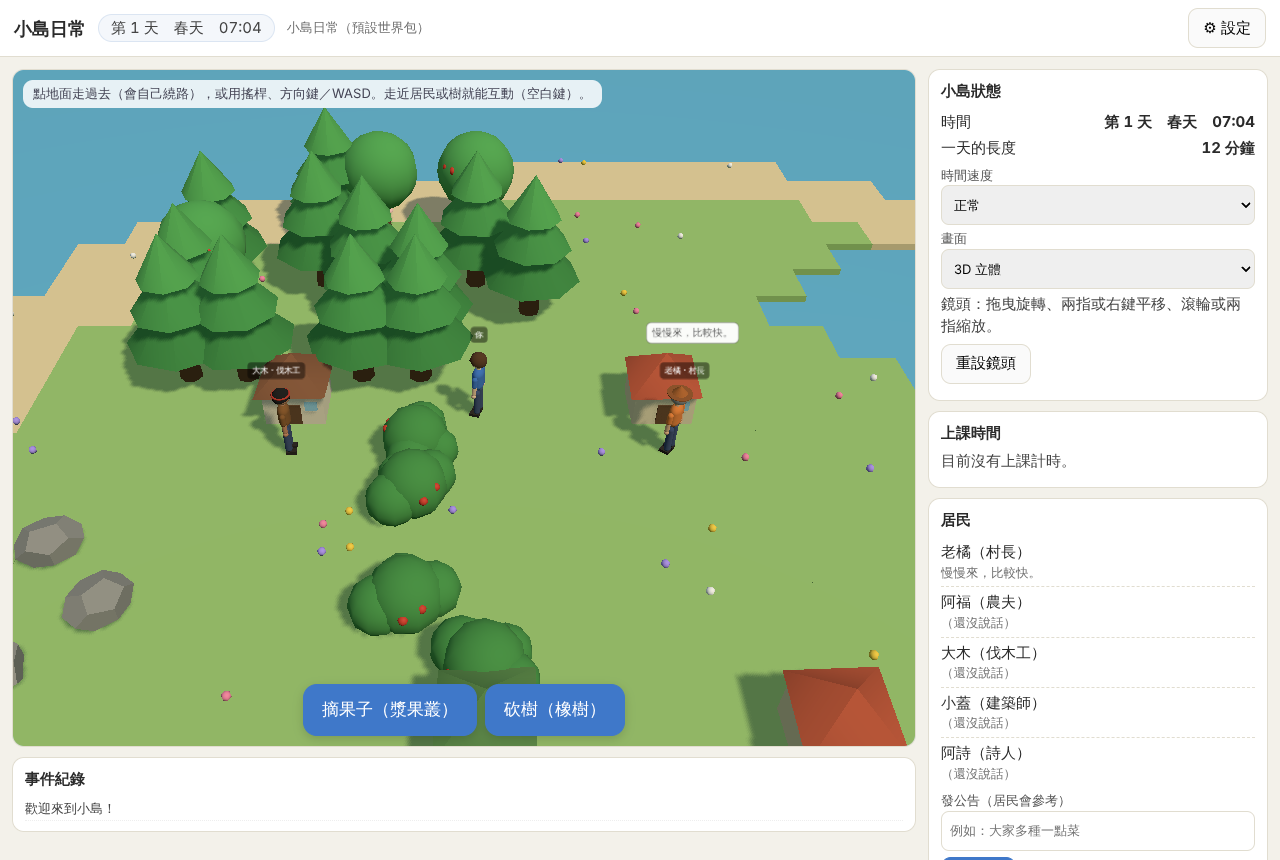
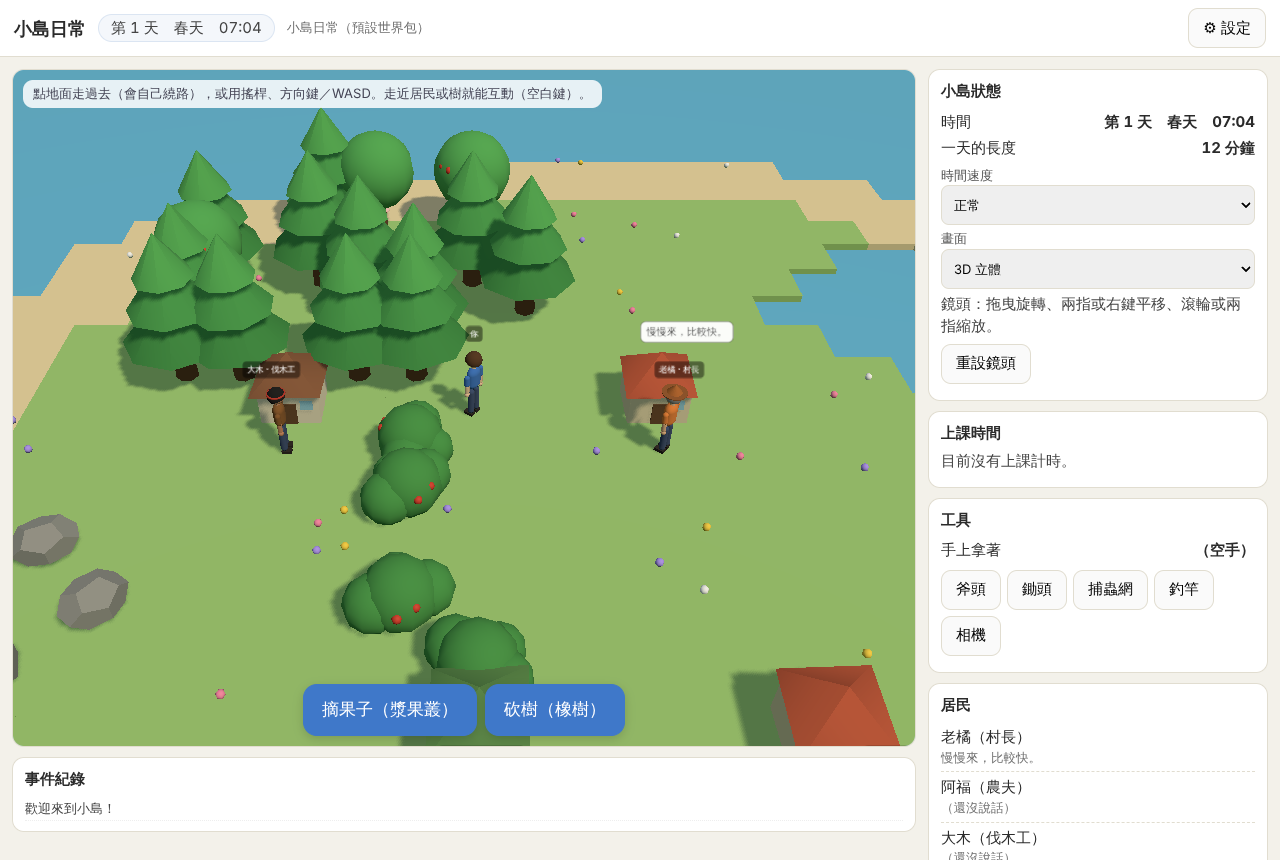
PR11：行動與工具（actions）——裝備工具、有持續時間的動作、成敗結果；採集改用動作
- src/modules/actions：api.start(actor, { label, seconds, tool, successChance, onDone }) → 進度、完成、失敗（種子亂數、可重現）、
  走開中斷；工具 toolSpeed 加快動作；actions.equip／unequip／cancel；畫面上方進度條（placement: 'hud'）、工具面板；存檔記住手上的工具
- 回饋事件 actions:feedback（失敗、中斷）；actions:completed 給任務等模組計數
- schema.js：工具的 toolSpeed 檢查；世界包範例：斧頭、釣竿 toolSpeed
- gathering：optional actions；開著時採集變成要花時間的動作（走開中斷），沒開時照舊馬上拿到；新增 gathering:feedback
- HUD 面板可以按（pointer-events）
- tests/actions.test.mjs（7 項）、e2e 進度條與回饋截圖

未修改 src/core。

Claude-Session: https://claude.ai/code/session_0121tRRF6aCKPvw8nQbVPqNZ

diff --git a/src/modules/actions/index.js b/src/modules/actions/index.js
@@ -1,0 +1,139 @@
+// 行動與工具（actions）：裝備工具、有持續時間的動作、成敗結果。其他模組透過 api 使用（optional: ['actions']）。
+//
+//   api.start(actor, {
+//     label: '砍樹', seconds: 1.2,            // 動作要多久（遊戲秒數），會依工具的 toolSpeed 變快
+//     tool: 'axe',                            // 選填：需要的工具；有的話自動裝備，沒有就不能開始
+//     successChance: 1,                       // 選填：成功機率（0～1），用種子亂數決定，可重現
+//     at: { x, y },                           // 選填：在哪裡做（回饋事件用）
+//     cancelIfMoved: true,                    // 走開就中斷（預設 true）
+//     onDone(outcome) {}                      // outcome = { ok: true|false, cancelled?: true }
+//   }) → { ok, reason }
+//   api.busy(actor) / api.progress(actor) / api.cancel(actor) / api.equipped(actor) / api.equip(actor, item)
+//
+// 「失敗」只代表這次沒成功（例如魚跑掉了），不扣東西、沒有懲罰。
+// 回饋事件：actions:feedback（開始、完成、失敗、中斷）；actions:completed 給其他模組（例如任務）計數。
+const posOf = (entities, actor) => entities.get(actor === 'player' ? 'player' : `resident.${actor}`);
+
+export default {
+  id: 'actions',
+  version: '0.1.0',
+  requires: [],
+  optional: [],
+  conflicts: [],
+  emits: ['actions:started', 'actions:completed', 'actions:feedback', 'actions:equipped'],
+  config: { moveTolerance: 0.4 },
+
+  init(ctx) {
+    const { entities, inventory } = ctx.services;
+    const items = new Map((ctx.data.items || []).map((x) => [x.id, x]));
+    const isTool = (id) => items.get(id)?.category === 'tool';
+    const equipped = new Map(); // actor → item id
+    const running = new Map();  // actor → { label, total, left, spec, start }
+    const fb = (kind, text, extra = {}) => ctx.emit('actions:feedback', { kind, text, ...extra });
+
+    function equip(actor, item) {
+      if (!isTool(item)) return { ok: false, reason: '這不是工具' };
+      if (!inventory.has(actor, item)) return { ok: false, reason: `背包裡沒有${inventory.itemName(item)}` };
+      equipped.set(actor, item);
+      ctx.emit('actions:equipped', { actor, item });
+      return { ok: true };
+    }
+
+    function start(actor, spec = {}) {
+      if (running.has(actor)) return { ok: false, reason: `正在${running.get(actor).label}，等一下喔` };
+      const seconds = Math.max(0, Number(spec.seconds) || 0);
+      if (spec.tool) {
+        if (!inventory.has(actor, spec.tool)) return { ok: false, reason: `需要${inventory.itemName(spec.tool)}` };
+        if (equipped.get(actor) !== spec.tool) equip(actor, spec.tool);
+      }
+      const speed = spec.tool ? (items.get(spec.tool)?.toolSpeed ?? 1) : 1;
+      const p = posOf(entities, actor);
+      const act = { label: spec.label || '做事', total: seconds / speed, left: seconds / speed, spec, start: p ? { x: p.x, y: p.y } : null };
+      running.set(actor, act);
+      ctx.emit('actions:started', { actor, label: act.label, seconds: act.total, tool: spec.tool ?? null });
+      if (act.total <= 0) finish(actor, act);
+      return { ok: true };
+    }
+
+    function finish(actor, act) {
+      running.delete(actor);
+      const chance = act.spec.successChance ?? 1;
+      const ok = chance >= 1 || ctx.rng.next() < chance;
+      ctx.emit('actions:completed', { actor, label: act.label, ok, tool: act.spec.tool ?? null });
+      try { act.spec.onDone?.({ ok }); } catch (e) { ctx.log(`動作「${act.label}」完成時出錯：${e.message}`); }
+      if (!ok) fb('fail', act.spec.failText || `${act.label}沒有成功，再試一次吧！`, { actor, at: act.spec.at });
+    }
+
+    function cancel(actor, why = '動作被打斷了') {
+      const act = running.get(actor);
+      if (!act) return false;
+      running.delete(actor);
+      try { act.spec.onDone?.({ ok: false, cancelled: true }); } catch { /* 忽略 */ }
+      fb('fail', why, { actor, at: act.spec.at, quiet: actor !== 'player' });
+      return true;
+    }
+
+    ctx.registerSystem({
+      id: 'actions.tick', order: 20,
+      update(dt) {
+        for (const [actor, act] of [...running]) {
+          if (act.spec.cancelIfMoved !== false && act.start) {
+            const p = posOf(entities, actor);
+            if (p && Math.hypot(p.x - act.start.x, p.y - act.start.y) > ctx.config.moveTolerance) { cancel(actor, `走開了，${act.label}停下來了`); continue; }
+          }
+          act.left -= dt;
+          if (act.left <= 0) finish(actor, act);
+        }
+      },
+    });
+
+    // ---------- 指令 ----------
+    const tools = (actor) => inventory.list(actor).filter((s) => isTool(s.item));
+    ctx.registerCommand({
+      id: 'actions.equip', label: '拿起工具', description: '把背包裡的工具拿在手上',
+      params: { item: { type: 'ref', of: 'items' } },
+      canRun: ({ item }, call) => { const r = isTool(item) ? (inventory.has(call.actor, item) ? true : `背包裡沒有${inventory.itemName(item)}`) : '這不是工具'; return r; },
+      run({ item }, call) { equip(call.actor, item); ctx.emit('actions:feedback', { kind: 'success', text: `拿起了${inventory.itemName(item)}`, actor: call.actor, quiet: true }); return item; },
+    });
+    ctx.registerCommand({ id: 'actions.unequip', label: '收起工具', run: (_, call) => { equipped.delete(call.actor); return true; } });
+    ctx.registerCommand({ id: 'actions.cancel', label: '停下來', available: (call) => (running.has(call.actor) ? true : '現在沒有在做事'), run: (_, call) => cancel(call.actor, '停下來了') });
+
+    // ---------- 面板 ----------
+    ctx.registerPanel({
+      id: 'actions.progress', title: '正在做', order: 1, placement: 'hud',
+      view() {
+        const act = running.get('player');
+        if (!act) return [];
+        return [{ type: 'bar', label: `${act.label}…`, value: act.total ? 1 - act.left / act.total : 1 }, { type: 'button', label: '停下來', command: 'actions.cancel' }];
+      },
+    });
+    ctx.registerPanel({
+      id: 'actions.tools', title: '工具', order: 15,
+      view() {
+        const list = tools('player');
+        const eq = equipped.get('player');
+        if (!list.length) return [{ type: 'text', text: '背包裡還沒有工具。' }];
+        return [
+          { type: 'stat', label: '手上拿著', value: eq ? inventory.itemName(eq) : '（空手）' },
+          { type: 'buttons', items: list.map((s) => ({ type: 'button', label: s.name, command: 'actions.equip', args: { item: s.item }, primary: s.item === eq })) },
+        ];
+      },
+    });
+
+    // 工具被用掉、送掉時，手上就不再拿著
+    ctx.on('core:inventoryChanged', (x) => { if (x.qty <= 0 && equipped.get(x.owner) === x.item) equipped.delete(x.owner); });
+
+    ctx.registerSaveSlice({
+      key: 'actions', version: 1,
+      serialize: () => ({ equipped: Object.fromEntries(equipped) }),
+      deserialize(d) { equipped.clear(); for (const [a, i] of Object.entries(d?.equipped || {})) if (isTool(i)) equipped.set(a, i); },
+    });
+
+    return { api: {
+      start, cancel, equip,
+      busy: (actor) => running.has(actor),
+      progress: (actor) => { const a = running.get(actor); return a ? { label: a.label, done: a.total ? 1 - a.left / a.total : 1 } : null; },
+      equipped: (actor) => equipped.get(actor) ?? null,
+    } };
+  },
+};

diff --git a/src/modules/gathering/index.js b/src/modules/gathering/index.js
@@ -15,10 +15,11 @@ export default {
   id: 'gathering',
   version: '0.1.0',
   requires: [],
-  optional: ['residents'],
+  optional: ['residents', 'actions'],
   conflicts: [],
-  emits: ['gathering:harvested', 'gathering:regrown'],
-  config: { reach: 2.2, toolsByKind: { tree: 'axe' } },
+  emits: ['gathering:harvested', 'gathering:regrown', 'gathering:feedback'],
+  // seconds：開了「行動與工具」時，採集要花多久（物種可以用 actionSeconds 自己指定）
+  config: { reach: 2.2, toolsByKind: { tree: 'axe' }, seconds: { tree: 1.4, rock: 1.4, bush: 0.8, forage: 0.5 } },
 
   init(ctx) {
     const { entities, inventory, time } = ctx.services;
@@ -60,9 +61,26 @@ export default {
         const tool = toolFor(sp);
         if (tool && !inventory.has(call.actor, tool)) return `需要${inventory.itemName(tool)}`;
         if (!roomFor(call.actor, sp)) return '背包滿了，先整理一下吧';
+        if (ctx.getModule('actions')?.busy(call.actor)) return '手上還在忙';
         return true;
       },
+      // 有「行動與工具」：變成要花一點時間的動作（走開會中斷）；沒有：馬上採到
       run({ target }, call) {
+        const actions = ctx.getModule('actions');
+        const ent = entities.get(target), sp = species.get(ent.ref);
+        if (!actions) return giveYield(target, call.actor);
+        const r = actions.start(call.actor, {
+          label: species.get(ent.ref)?.actionLabel ?? VERB[sp.kind], seconds: sp.actionSeconds ?? ctx.config.seconds?.[sp.kind] ?? 1,
+          tool: toolFor(sp), at: { x: ent.x, y: ent.y },
+          onDone: ({ ok }) => { if (ok && !entities.get(target)?.state.depleted) giveYield(target, call.actor); },
+        });
+        return r.ok ? { started: true } : { started: false, reason: r.reason };
+      },
+    });
+
+    function giveYield(target, actor) {
+      const call = { actor };
+      {
         const ent = entities.get(target), sp = species.get(ent.ref);
         const got = [];
         for (const s of sp.yield) {
@@ -74,9 +92,10 @@ export default {
         const text = got.map((g) => `${inventory.itemName(g.item)} ×${g.qty}`).join('、');
         notify(`${sp.kind === 'tree' ? '🪓' : sp.kind === 'rock' ? '⛏' : '🧺'} ${nameOf(call.actor)}${DONE[sp.kind]}${sp.name}，得到 ${text}`);
         ctx.emit('gathering:harvested', { actor: call.actor, species: sp.id, items: got, target });
+        ctx.emit('gathering:feedback', { kind: 'success', text: `得到 ${text}`, actor: call.actor, at: { x: ent.x, y: ent.y }, entity: target, sound: sp.kind === 'tree' ? 'chop' : 'pick', quiet: call.actor !== 'player' });
         return { items: got, regrowDay };
-      },
-    });
+      }
+    }
 
     for (const kind of KINDS) {
       ctx.registerEntityKind(kind, {

diff --git a/index.html b/index.html
@@ -60,7 +60,7 @@
   .settings-head { display:flex; align-items:center; justify-content:space-between; }
   .settings-head h2 { margin:0; font-size:18px; }
   #hudPanels { position:absolute; top:44px; left:50%; transform:translateX(-50%); display:flex; gap:8px; z-index:2; pointer-events:none; }
-  #hudPanels .panel { margin:0; padding:6px 12px; background:rgba(255,255,255,.92); min-width:200px; }
+  #hudPanels .panel { pointer-events:auto; margin:0; padding:6px 12px; background:rgba(255,255,255,.92); min-width:200px; }
   #hudPanels .panel h2 { font-size:13px; margin:0 0 2px; }
   #feedback { position:absolute; top:96px; left:50%; transform:translateX(-50%); display:flex; flex-direction:column; align-items:center; gap:4px; pointer-events:none; z-index:2; }
   .fb { background:rgba(255,255,255,.94); border-radius:999px; padding:4px 14px; font-weight:bold; box-shadow:0 2px 8px rgba(0,0,0,.12); animation: fbUp 2.6s ease-out forwards; }

diff --git a/src/modules/actions/schema.js b/src/modules/actions/schema.js
@@ -1,0 +1,11 @@
+// 行動與工具（actions）的世界包資料規格：工具物品可以有 toolSpeed（動作快慢倍率，預設 1）。
+export default {
+  module: 'actions',
+  validate(data, { E, items }) {
+    for (const it of items) {
+      if (it?.toolSpeed === undefined) continue;
+      if (it.category !== 'tool') E('items.json', `物品「${it.id}」不是工具，不能設定 toolSpeed`);
+      else if (typeof it.toolSpeed !== 'number' || it.toolSpeed < 0.2 || it.toolSpeed > 5) E('items.json', `工具「${it.id}」的 toolSpeed 要是 0.2～5 的數字`);
+    }
+  },
+};
